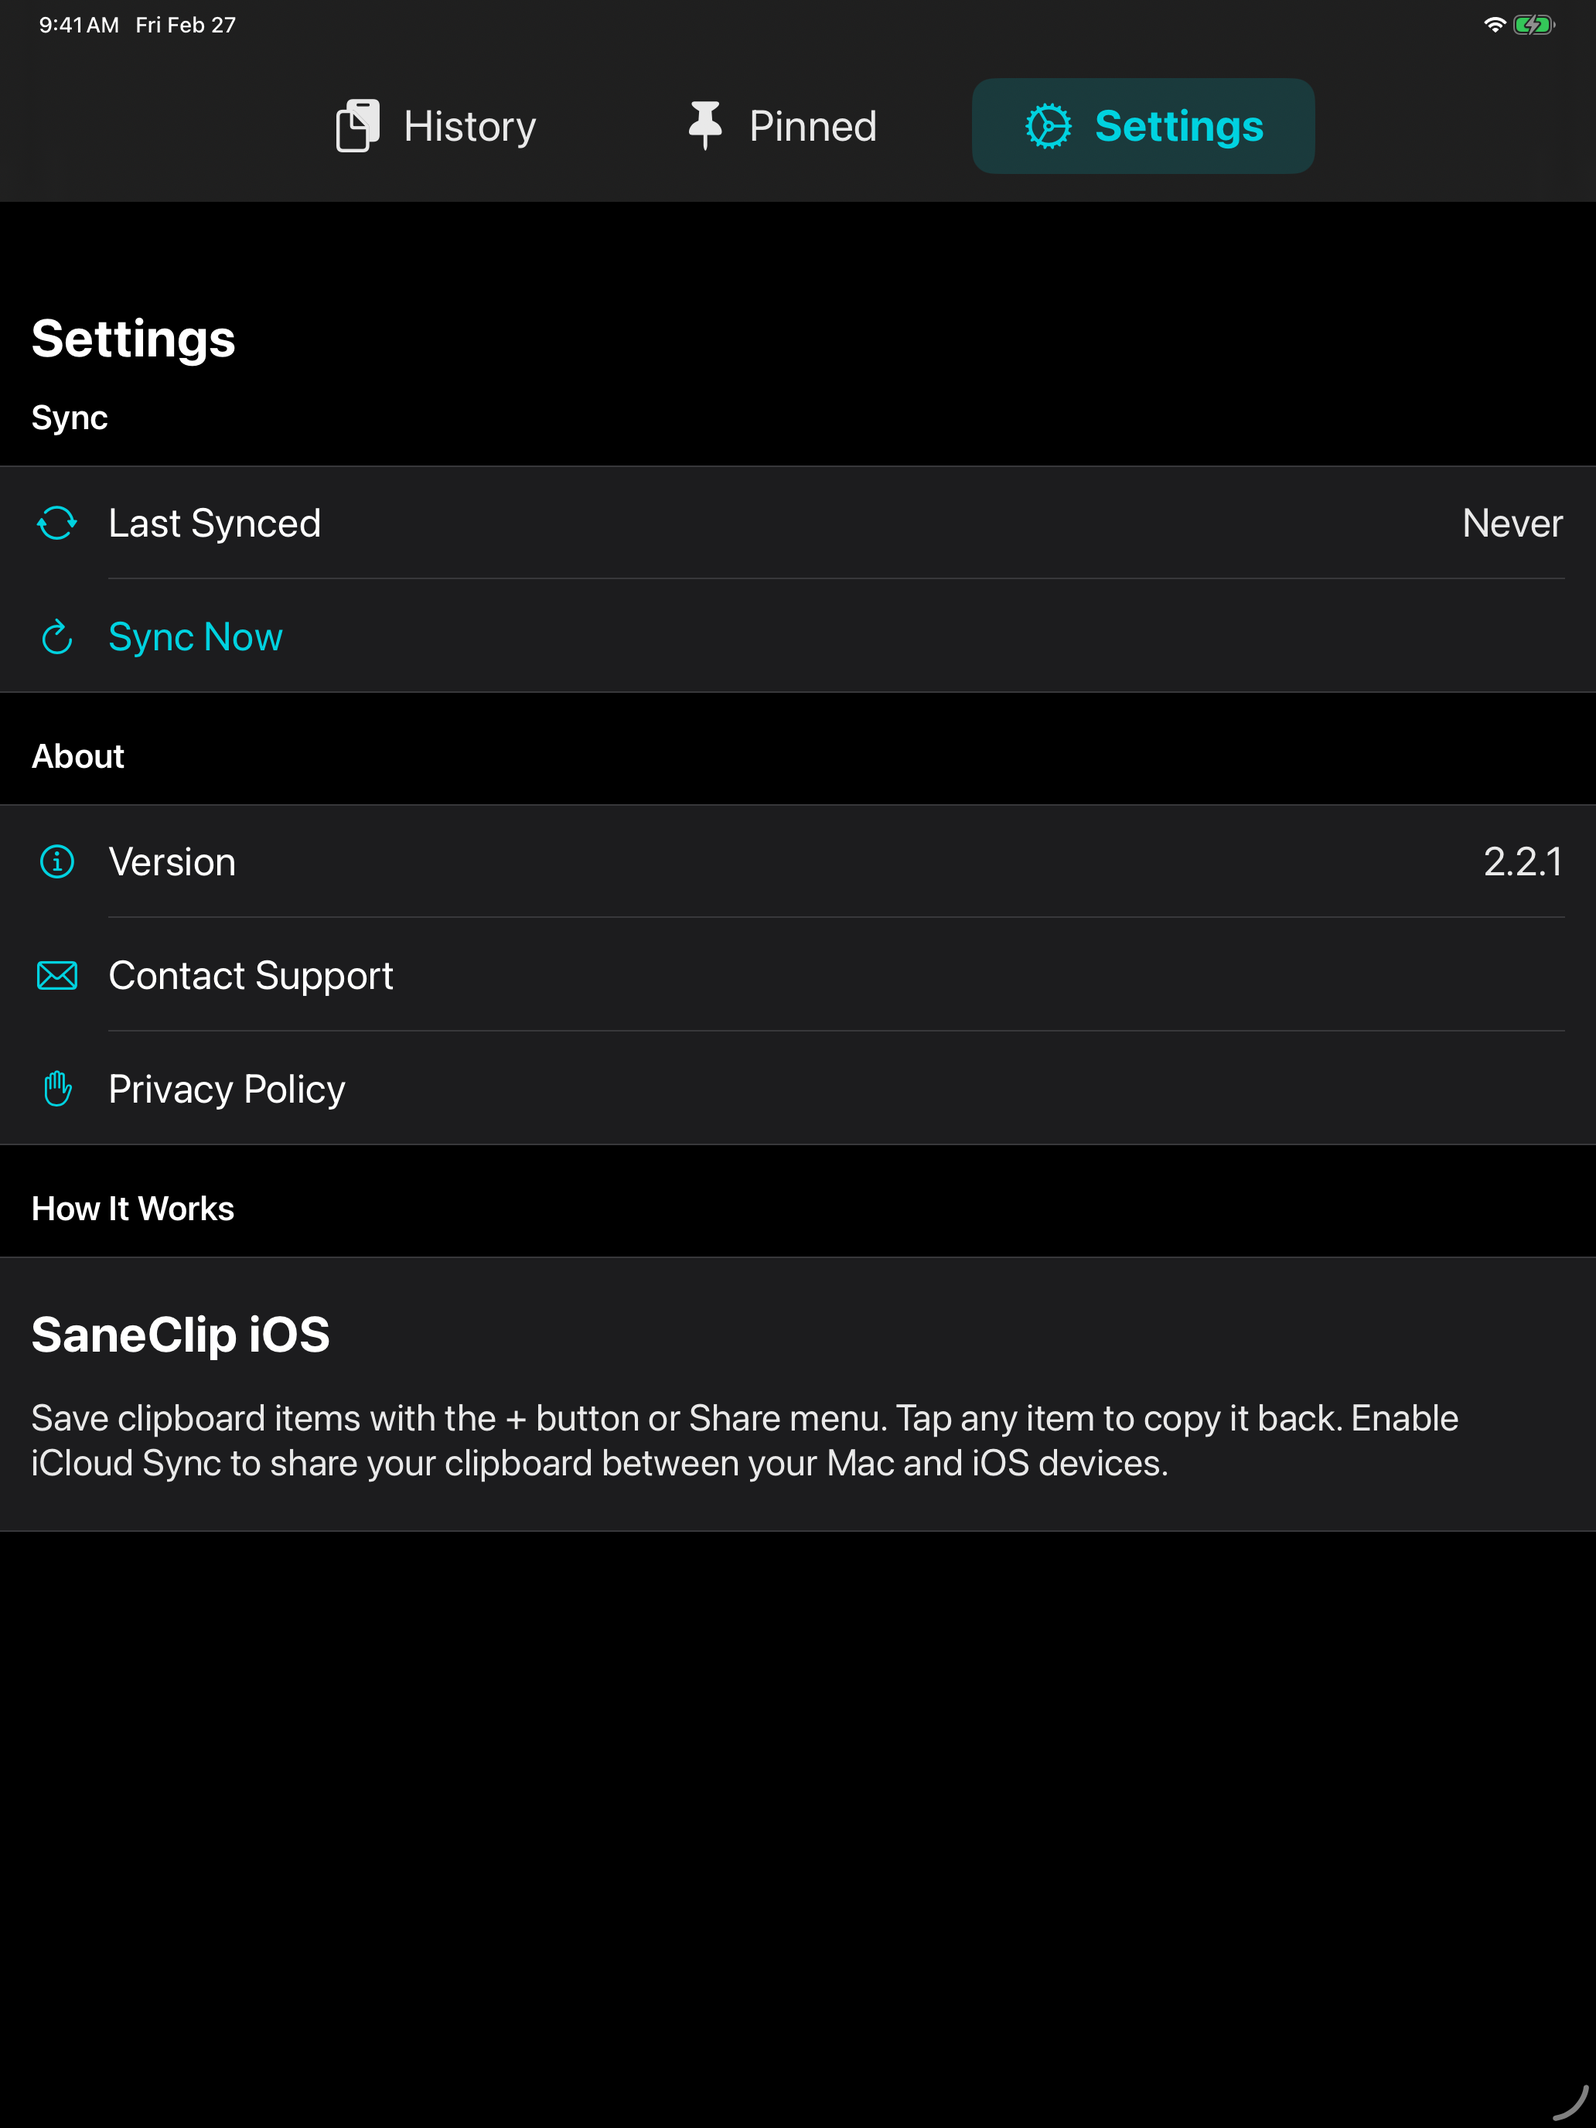
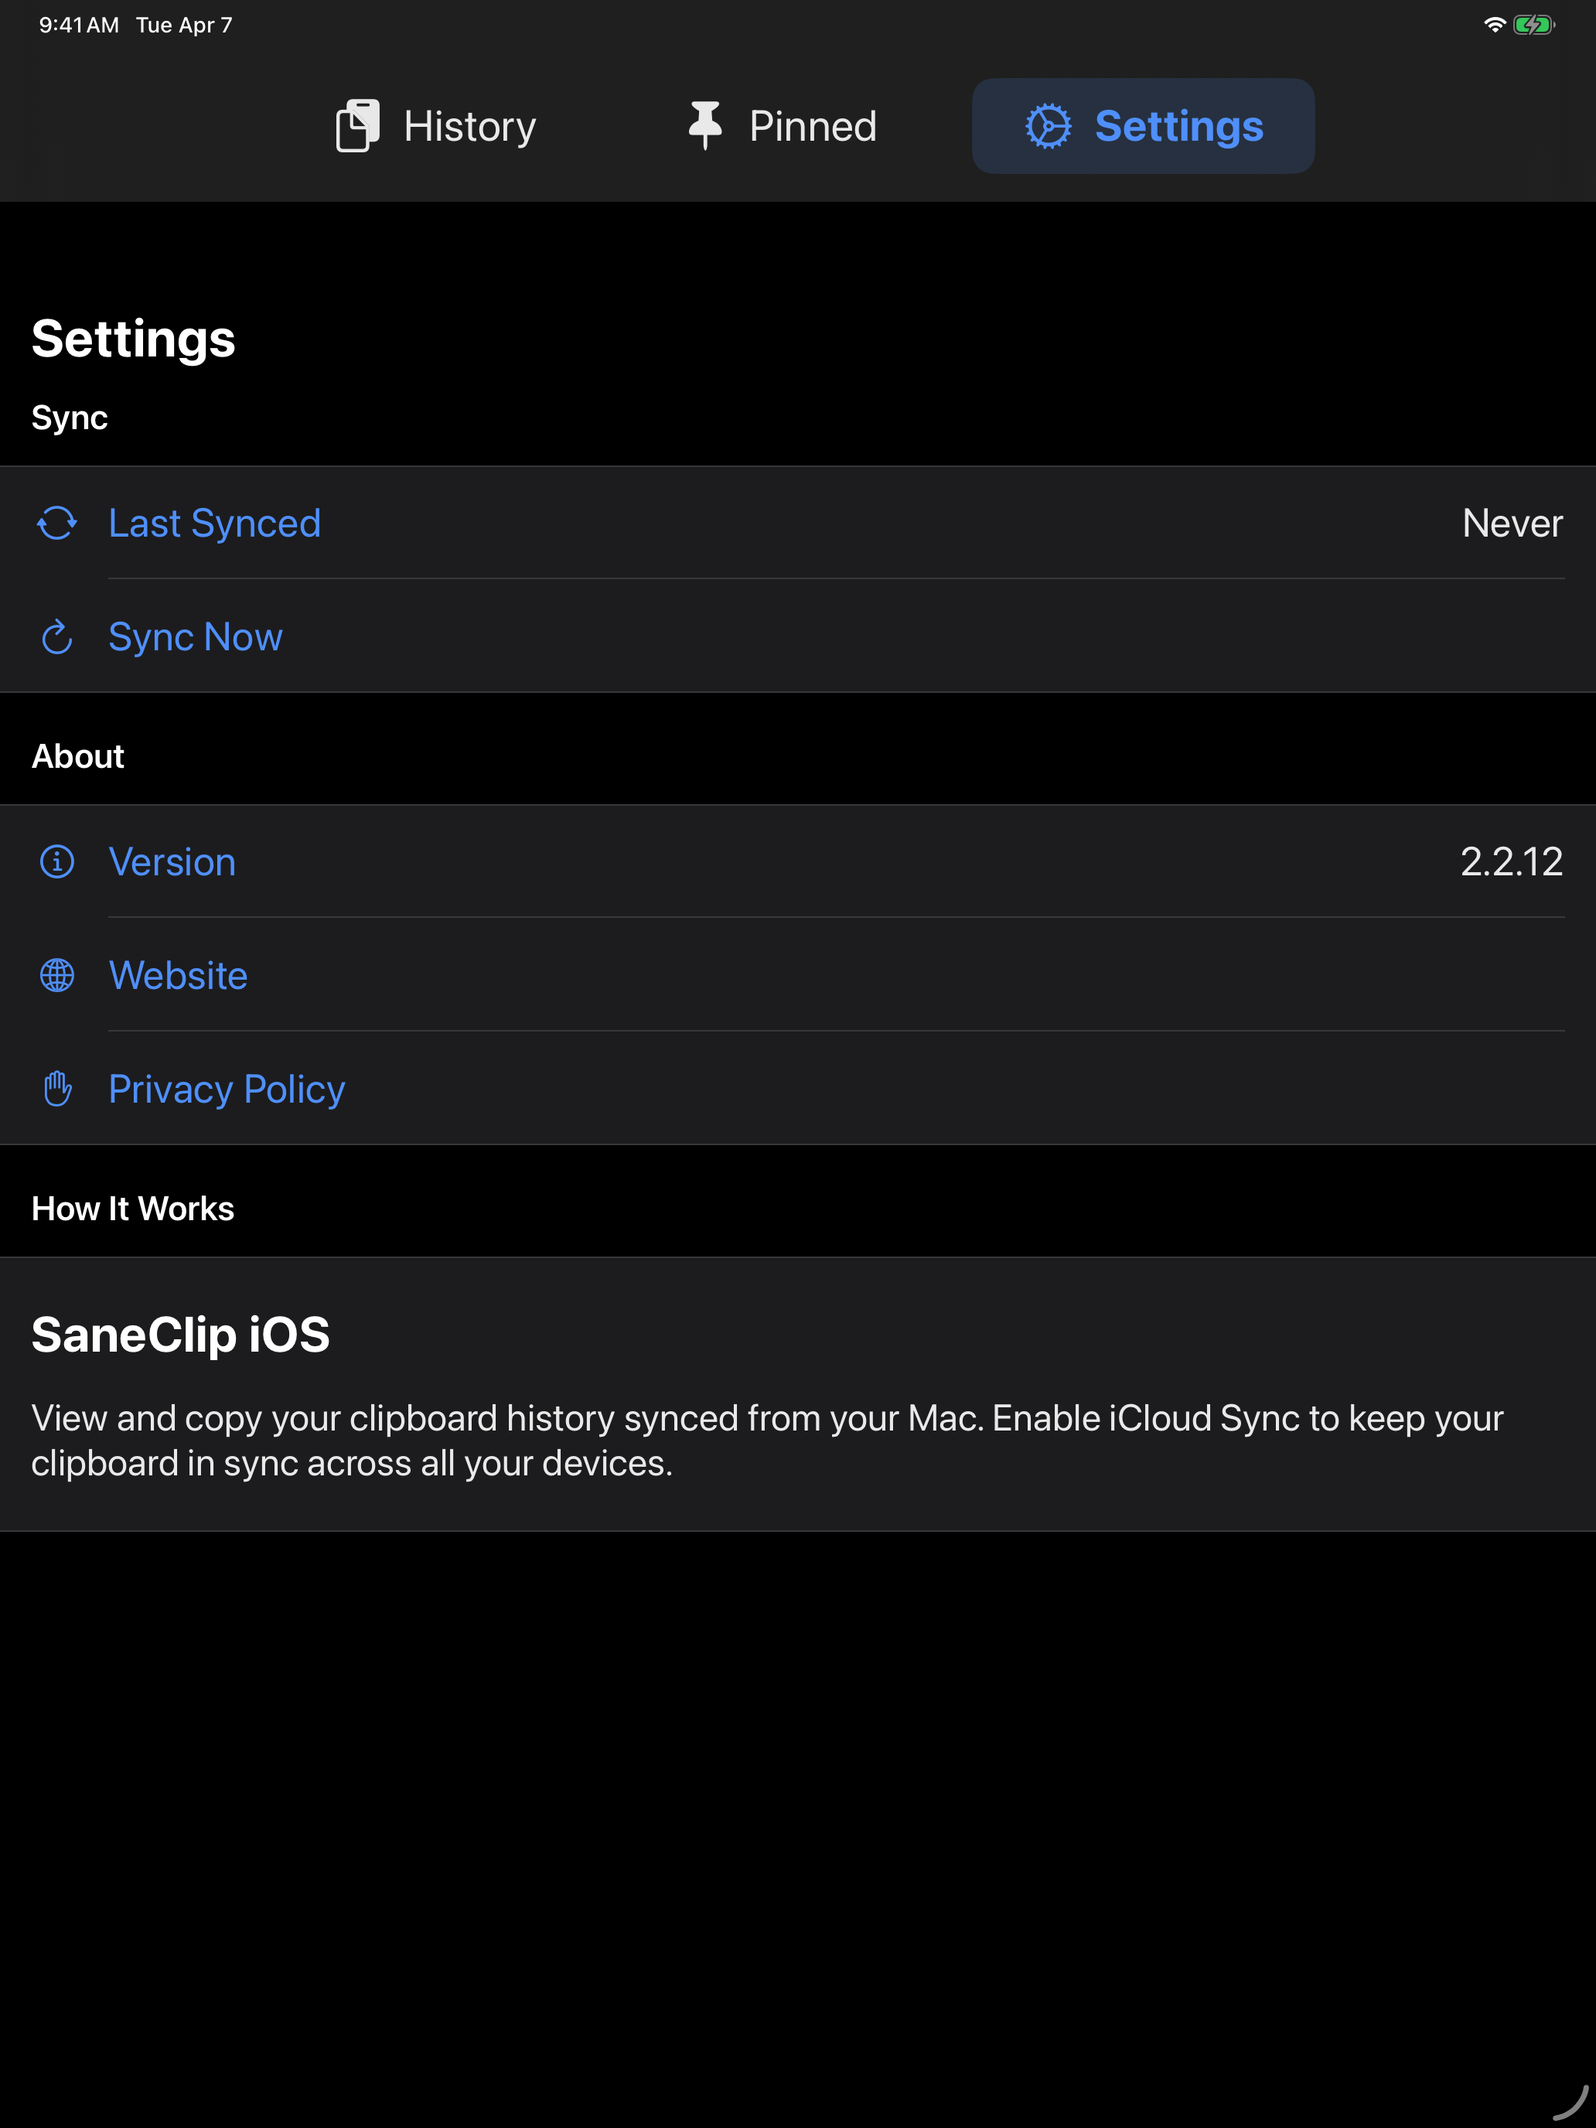
Fix SaneClip iPhone screenshot parity and updater guardrails

diff --git a/iOS/Views/SettingsTab.swift b/iOS/Views/SettingsTab.swift
@@ -5,7 +5,6 @@ import SwiftUI
 struct SettingsTab: View {
     @EnvironmentObject var viewModel: ClipboardHistoryViewModel
     @Environment(\.horizontalSizeClass) private var sizeClass
-    @State private var showFeedback = false
     @State private var showResetSyncConfirmation = false
 
     private var isIPad: Bool { sizeClass == .regular }
@@ -37,9 +36,6 @@ struct SettingsTab: View {
             .listStyle(.grouped)
             .navigationTitle("Settings")
             .toolbarBackground(.visible, for: .navigationBar)
-            .sheet(isPresented: $showFeedback) {
-                SaneFeedbackView(diagnosticsService: .shared)
-            }
             #if ENABLE_SYNC
                 .alert("Reset iCloud Sync?", isPresented: $showResetSyncConfirmation) {
                     Button("Cancel", role: .cancel) {}
@@ -130,11 +126,11 @@ struct SettingsTab: View {
                 HStack(spacing: rowSpacing) {
                     Image(systemName: "arrow.triangle.2.circlepath")
                         .font(.system(size: rowIcon))
-                        .foregroundStyle(.teal)
+                        .foregroundStyle(Color.clipBlue)
                         .frame(width: iconFrame, alignment: .center)
                     Text("Last Synced")
                         .font(rowText)
-                        .foregroundStyle(.white)
+                        .foregroundStyle(Color.clipBlue)
                     Spacer()
                     if let lastSync = viewModel.lastSyncTime {
                         Text(lastSync, style: .relative)
@@ -155,14 +151,15 @@ struct SettingsTab: View {
                 HStack(spacing: rowSpacing) {
                     Image(systemName: "arrow.clockwise")
                         .font(.system(size: rowIcon))
-                        .foregroundStyle(.teal)
+                        .foregroundStyle(Color.clipBlue)
                         .frame(width: iconFrame, alignment: .center)
                     Text("Sync Now")
                         .font(rowText)
+                        .foregroundStyle(Color.clipBlue)
                     Spacer()
                     if viewModel.isLoading {
                         ProgressView()
-                            .tint(.teal)
+                            .tint(Color.clipBlue)
                     }
                 }
                 .padding(.vertical, rowPadding)
@@ -185,14 +182,8 @@ struct SettingsTab: View {
                 value: Bundle.main.infoDictionary?["CFBundleShortVersionString"] as? String ?? "1.0"
             )
 
-            Link(destination: URL(string: "https://github.com/sane-apps/SaneClip/issues")!) {
-                settingsRow(icon: "arrow.up.right.square", label: "View Issues")
-            }
-
-            Button {
-                showFeedback = true
-            } label: {
-                settingsRow(icon: "ladybug", label: "Report a Bug")
+            Link(destination: URL(string: "https://saneclip.com")!) {
+                settingsRow(icon: "globe", label: "Website")
             }
 
             Link(destination: URL(string: "https://saneclip.com/privacy")!) {
@@ -212,7 +203,7 @@ struct SettingsTab: View {
             VStack(alignment: .leading, spacing: isIPad ? 20 : 8) {
                 Text("SaneClip iOS")
                     .font(infoTitle)
-                Text("Save clipboard items with the + button or Share menu. Tap any item to copy it back. Enable iCloud Sync to share your clipboard between your Mac and iOS devices.")
+                Text("View and copy your clipboard history synced from your Mac. Enable iCloud Sync to keep your clipboard in sync across all your devices.")
                     .font(infoBody)
                     .foregroundStyle(.white.opacity(0.9))
             }
@@ -232,7 +223,8 @@ struct SettingsTab: View {
         icon: String,
         label: String,
         value: String? = nil,
-        iconColor: Color = .teal
+        iconColor: Color = .clipBlue,
+        labelColor: Color = .clipBlue
     ) -> some View {
         HStack(spacing: rowSpacing) {
             Image(systemName: icon)
@@ -241,7 +233,7 @@ struct SettingsTab: View {
                 .frame(width: iconFrame, alignment: .center)
             Text(label)
                 .font(rowText)
-                .foregroundStyle(.white)
+                .foregroundStyle(labelColor)
             Spacer()
             if let value {
                 Text(value)

diff --git a/iOS/Views/HistoryTab.swift b/iOS/Views/HistoryTab.swift
@@ -9,6 +9,7 @@ struct HistoryTab: View {
     @State private var selectedItem: SharedClipboardItem?
 
     private var isIPad: Bool { sizeClass == .regular }
+    private let isScreenshotMode = LaunchOptions.isScreenshotMode()
 
     var body: some View {
         NavigationStack {
@@ -21,21 +22,23 @@ struct HistoryTab: View {
                     )
                 } else {
                     VStack(spacing: 0) {
-                        if viewModel.isShowingDemoData {
+                        if viewModel.isShowingDemoData && !isScreenshotMode {
                             demoBanner
                         }
-                        if viewModel.clipboardDetectedText != nil {
+                        if viewModel.clipboardDetectedText != nil && !isScreenshotMode {
                             clipboardDetectedBanner
                         }
                         historyList
                     }
                 }
             }
-            .navigationTitle("SaneClip")
+            .navigationTitle("History")
             .toolbarBackground(.visible, for: .navigationBar)
             .toolbar {
-                ToolbarItem(placement: .navigationBarLeading) {
-                    saveClipboardButton
+                if !isScreenshotMode {
+                    ToolbarItem(placement: .navigationBarLeading) {
+                        saveClipboardButton
+                    }
                 }
                 ToolbarItem(placement: .navigationBarTrailing) {
                     refreshButton
@@ -175,7 +178,7 @@ struct HistoryTab: View {
             } label: {
                 Label("Copy", systemImage: "doc.on.doc")
             }
-            .tint(.teal)
+            .tint(Color.clipBlue)
         }
         .accessibilityLabel(item.accessibilityDescription)
         .accessibilityHint("Tap to copy, long press for options")
@@ -194,11 +197,11 @@ struct HistoryTab: View {
     @ViewBuilder
     private var toastOverlay: some View {
         if viewModel.copiedItemID != nil {
-            ToastView(icon: "checkmark.circle.fill", text: "Copied", color: .teal)
+            ToastView(icon: "checkmark.circle.fill", text: "Copied", color: Color.clipBlue)
                 .transition(.move(edge: .bottom).combined(with: .opacity))
                 .padding(.bottom, 16)
         } else if viewModel.savedItemID != nil {
-            ToastView(icon: "plus.circle.fill", text: "Saved", color: .teal)
+            ToastView(icon: "plus.circle.fill", text: "Saved", color: Color.clipBlue)
                 .transition(.move(edge: .bottom).combined(with: .opacity))
                 .padding(.bottom, 16)
         }

diff --git a/Tests/SaneClipTests.swift b/Tests/SaneClipTests.swift
@@ -335,6 +335,40 @@ struct SaneClipTests {
         #expect(machLookupNames.contains("$(PRODUCT_BUNDLE_IDENTIFIER)-spks"))
     }
 
+    @Test("Appcast forces pre-2.2.8 builds onto the manual download path")
+    func sparkleAppcastProtectsPreInstallerLauncherBuilds() throws {
+        let repoRoot = projectRootURL()
+        let appcastURL = repoRoot.appendingPathComponent("docs/appcast.xml")
+        let appcast = try String(contentsOf: appcastURL, encoding: .utf8)
+
+        #expect(appcast.contains("<title>2.2.12</title>"))
+        #expect(appcast.contains("<sparkle:informationalUpdate>"))
+        #expect(appcast.contains("<sparkle:belowVersion>2.2.8</sparkle:belowVersion>"))
+    }
+
+    @Test("iPhone settings restore the App Store screenshot accent lane")
+    func iPhoneSettingsSourceMatchesScreenshotLane() throws {
+        let repoRoot = projectRootURL()
+        let settingsURL = repoRoot.appendingPathComponent("iOS/Views/SettingsTab.swift")
+        let settingsSource = try String(contentsOf: settingsURL, encoding: .utf8)
+
+        #expect(settingsSource.contains("labelColor: Color = .clipBlue"))
+        #expect(settingsSource.contains("Link(destination: URL(string: \"https://saneclip.com\")!)"))
+        #expect(!settingsSource.contains("View Issues"))
+        #expect(!settingsSource.contains("Report a Bug"))
+    }
+
+    @Test("iPhone screenshot mode keeps history chrome aligned with App Store assets")
+    func screenshotModeHistoryChromeMatchesAssetLane() throws {
+        let repoRoot = projectRootURL()
+        let historyURL = repoRoot.appendingPathComponent("iOS/Views/HistoryTab.swift")
+        let historySource = try String(contentsOf: historyURL, encoding: .utf8)
+
+        #expect(historySource.contains(".navigationTitle(\"History\")"))
+        #expect(historySource.contains("if !isScreenshotMode"))
+        #expect(historySource.contains("viewModel.isShowingDemoData && !isScreenshotMode"))
+    }
+
     @Test("Sandboxed builds allow user-selected file access for open and save panels")
     func sandboxedBuildsGrantUserSelectedFileAccess() throws {
         let repoRoot = URL(fileURLWithPath: #filePath)

diff --git a/iOS/Views/ClipboardItemCell.swift b/iOS/Views/ClipboardItemCell.swift
@@ -9,6 +9,7 @@ struct ClipboardItemCell: View {
     @Environment(\.horizontalSizeClass) private var sizeClass
 
     private var isIPad: Bool { sizeClass == .regular }
+    private let isScreenshotMode = LaunchOptions.isScreenshotMode()
 
     // MARK: - Source-Aware Colors
 
@@ -16,7 +17,7 @@ struct ClipboardItemCell: View {
     /// Dark mode: bright/saturated for readability on dark backgrounds.
     /// Light mode: darkened variants for WCAG AA (4.5:1) on light backgrounds.
     private var sourceColor: Color {
-        guard let source = item.sourceAppName?.lowercased() else { return Color.teal }
+        guard let source = item.sourceAppName?.lowercased() else { return Color.clipBlue }
         if colorScheme == .dark {
             switch source {
             case "messages": return Color(hex: 0x5EC2A0) // Sage green
@@ -32,7 +33,7 @@ struct ClipboardItemCell: View {
             case "xcode": return Color(hex: 0x6B7FE8) // Indigo
             case "finder": return Color(hex: 0x4DD4D4) // Cyan
             case "slack": return Color(hex: 0xD464CC) // Fuchsia
-            default: return Color.teal
+            default: return Color.clipBlue
             }
         } else {
             switch source {
@@ -49,7 +50,7 @@ struct ClipboardItemCell: View {
             case "xcode": return Color(hex: 0x4450A8) // Deep indigo
             case "finder": return Color(hex: 0x2A8FA8) // Deep cyan
             case "slack": return Color(hex: 0xA03898) // Deep fuchsia
-            default: return Color.teal
+            default: return Color.clipBlue
             }
         }
     }
@@ -170,7 +171,7 @@ struct ClipboardItemCell: View {
                                 .foregroundColor(accentColor)
                         }
 
-                        if !item.deviceName.isEmpty {
+                        if !item.deviceName.isEmpty && !isScreenshotMode {
                             Text("·")
                                 .font(isIPad ? .system(size: 18) : .caption)
                                 .foregroundStyle(metadataColor)

diff --git a/iOS/SaneClipIOSApp.swift b/iOS/SaneClipIOSApp.swift
@@ -13,7 +13,7 @@ struct SaneClipIOSApp: App {
         WindowGroup {
             ContentView()
                 .environmentObject(viewModel)
-                .tint(.teal)
+                .tint(Color.clipBlue)
                 .preferredColorScheme(.dark)
                 .fullScreenCover(isPresented: Binding(
                     get: {
@@ -83,11 +83,11 @@ struct ContentView: View {
                     .fontWeight(isSelected ? .bold : .regular)
             }
             .font(.system(size: 28))
-            .foregroundStyle(isSelected ? .teal : .white.opacity(0.9))
+            .foregroundStyle(isSelected ? Color.clipBlue : .white.opacity(0.9))
             .padding(.horizontal, 32)
             .padding(.vertical, 14)
             .background(
-                isSelected ? Color.teal.opacity(0.15) : Color.clear,
+                isSelected ? Color.clipBlue.opacity(0.15) : Color.clear,
                 in: RoundedRectangle(cornerRadius: 14)
             )
         }
@@ -118,16 +118,23 @@ struct ContentView: View {
     }
 }
 
-private enum LaunchOptions {
+enum LaunchOptions {
+    static func isScreenshotMode(arguments: [String] = ProcessInfo.processInfo.arguments) -> Bool {
+        arguments.contains("--screenshot-tab")
+    }
+
     static var initialTabIndex: Int {
-        let args = ProcessInfo.processInfo.arguments
-        guard let markerIndex = args.firstIndex(of: "--screenshot-tab"),
-              markerIndex + 1 < args.count
+        initialTabIndex(arguments: ProcessInfo.processInfo.arguments)
+    }
+
+    static func initialTabIndex(arguments: [String]) -> Int {
+        guard let markerIndex = arguments.firstIndex(of: "--screenshot-tab"),
+              markerIndex + 1 < arguments.count
         else {
             return 0
         }
 
-        switch args[markerIndex + 1].lowercased() {
+        switch arguments[markerIndex + 1].lowercased() {
         case "history":
             return 0
         case "pinned":

diff --git a/iOS/Views/PinnedTab.swift b/iOS/Views/PinnedTab.swift
@@ -110,7 +110,7 @@ struct PinnedTab: View {
     @ViewBuilder
     private var copiedToastOverlay: some View {
         if viewModel.copiedItemID != nil {
-            ToastView(icon: "checkmark.circle.fill", text: "Copied", color: Color.teal)
+            ToastView(icon: "checkmark.circle.fill", text: "Copied", color: Color.pinnedOrange)
                 .transition(.move(edge: .bottom).combined(with: .opacity))
                 .padding(.bottom, 16)
         }
